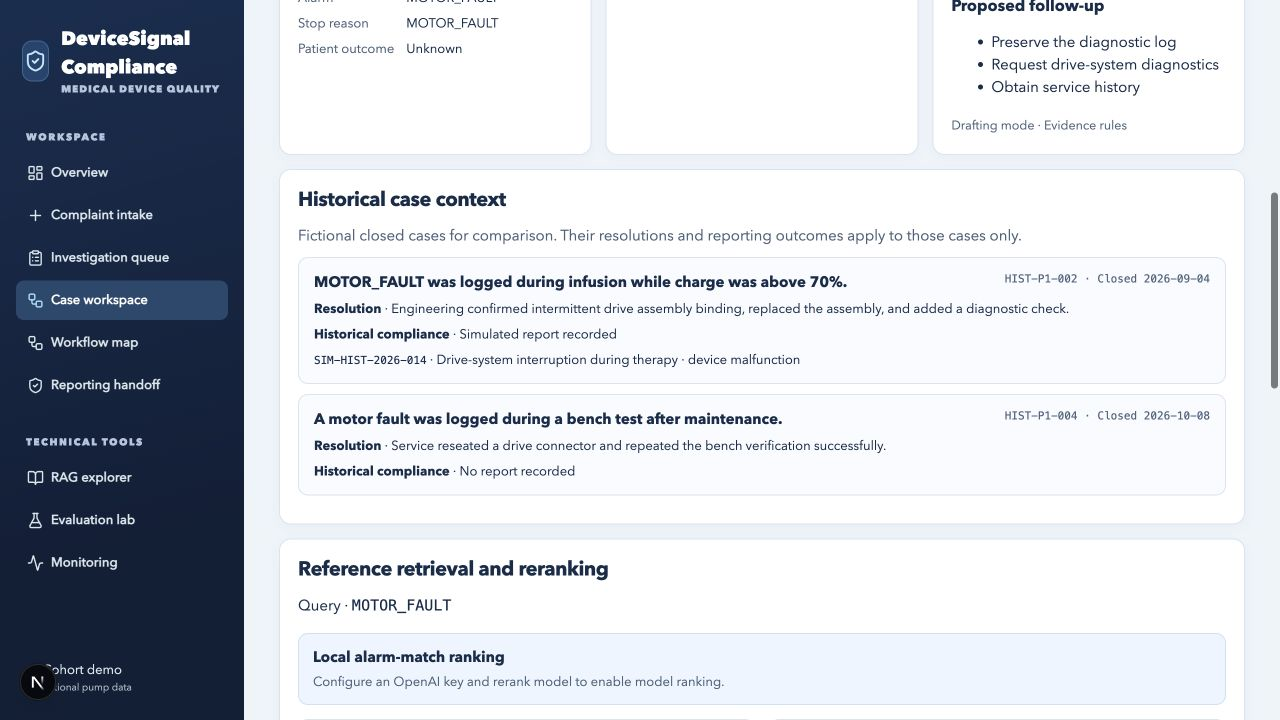
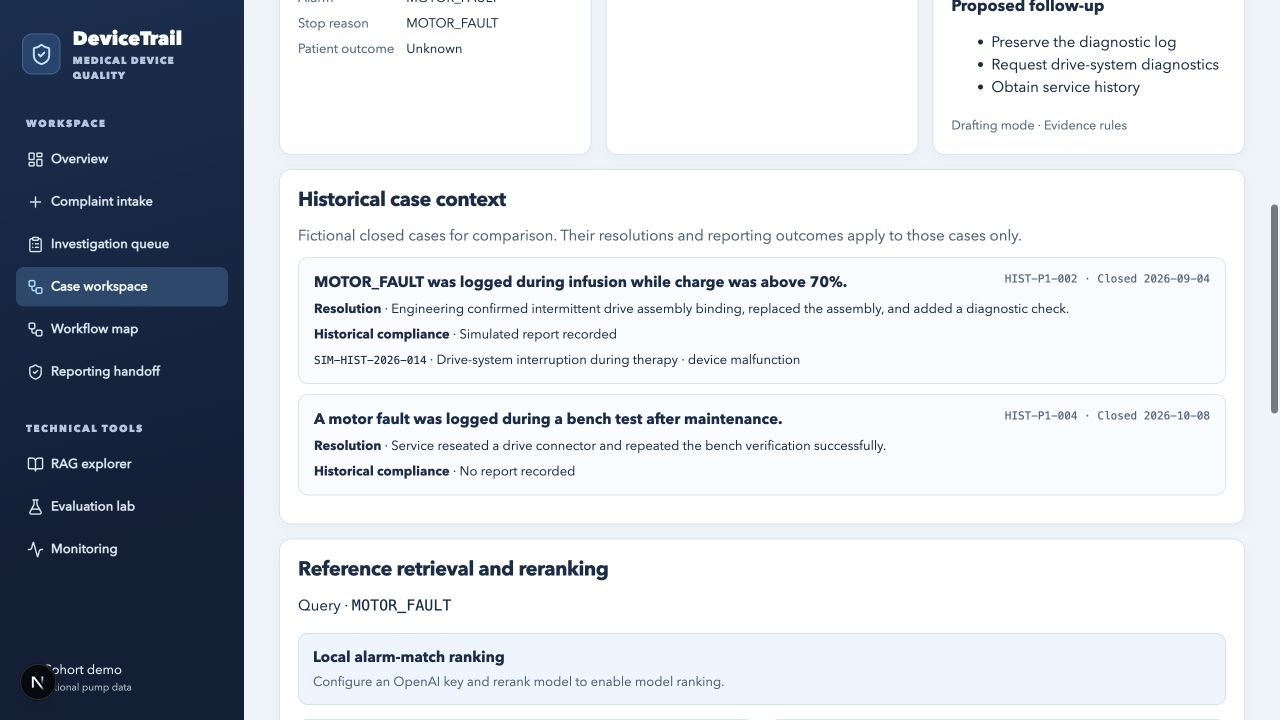
Rebrand the workspace as DeviceTrail

diff --git a/web/app/page.tsx b/web/app/page.tsx
@@ -1,5 +1,6 @@
 'use client';
 
+import { APP_NAME, DESCRIPTION, TAGLINE } from './brand';
 import TriageFlow from './triage-flow';
 import HistoricalContext, { type HistoricalCase, type HistoricalCompliance } from './historical-context';
 import RankingComparison, { type RetrievalRanking } from './retrieval-ranking';
@@ -202,7 +203,7 @@ export default function Home() {
 
   return <div className="shell">
     <aside className="sidebar">
-      <div className="brand"><span><ShieldCheck size={23} /></span><div>DeviceSignal Compliance<small>MEDICAL DEVICE QUALITY</small></div></div>
+      <div className="brand"><span><ShieldCheck size={23} /></span><div>{APP_NAME}<small>MEDICAL DEVICE QUALITY</small></div></div>
       <div className="nav-label">WORKSPACE</div>
       <nav aria-label="Workspace">{nav.map(([id, label, Icon], index) => <div key={id}>
         {index === 6 && <div className="nav-label tools">TECHNICAL TOOLS</div>}
@@ -214,7 +215,7 @@ export default function Home() {
       <header className="top"><span>Workspace <b>/</b> {nav.find(item => item[0] === screen)?.[1]}</span><span className="demo"><span className="dot" /> DEMO ENVIRONMENT</span></header>
       <div className="content">
         <div className="heading"><div><p className="eyebrow">POST-MARKET QUALITY · DEMO-P1</p><h1>{titles[screen][0]}</h1><p className="muted">{titles[screen][1]}</p></div>
-          {screen === 'overview' && <button className="primary" disabled={!!busy} onClick={() => open('intake')}><Plus size={17} /> New complaint</button>}
+          {screen === 'overview' && <button className="primary cta-nudge" disabled={!!busy} onClick={() => open('intake')}><Plus size={17} /> New complaint</button>}
         </div>
         <div className="safety"><ShieldCheck size={18} /><div><strong>Human review required</strong><span> Synthetic data only. Summary approval covers draft wording. Regulatory decisions belong to authorized humans.</span></div></div>
         {error && <div role="alert" className="alert">{error} <button onClick={() => void task('Refreshing', refresh)} disabled={!!busy}>Reconnect / refresh</button></div>}
@@ -222,10 +223,10 @@ export default function Home() {
         {notice && <div role="status" className="progress">{notice}</div>}
 
         {screen === 'overview' && <>
-          <section className="clinical-hero" aria-label="DeviceSignal Compliance">
+          <section className="clinical-hero" aria-label={APP_NAME}>
             <p className="hero-kicker"><Activity size={16} /> MEDICAL DEVICE QUALITY</p>
-            <h2>Investigate with evidence.<br />Review with confidence.</h2>
-            <p>One workspace for device complaints, cited findings and human-controlled reporting.</p>
+            <h2>{TAGLINE}</h2>
+            <p>{DESCRIPTION}</p>
             <button onClick={() => open('flow')} disabled={!!busy}>Explore the workflow <ArrowRight size={16} /></button>
           </section>
           <div className="stats">
@@ -248,7 +249,7 @@ export default function Home() {
           {currentScenario && <dl><dt>Device</dt><dd>{currentScenario.device.model} · {currentScenario.device.device_id}</dd><dt>Reported event</dt><dd>{currentScenario.incident.event_date} · {currentScenario.incident.event_time || 'Time unavailable'}</dd><dt>Patient outcome</dt><dd>Unknown</dd></dl>}
           <label>Original complaint<textarea required maxLength={4000} rows={5} value={complaint} onChange={e => setComplaint(e.target.value)} /></label>
           <label className="check"><input type="checkbox" name="urgent" /> Flag for prompt quality review</label>
-          <div className="actions"><button disabled={!!busy || !selected}>Save draft</button><button className="primary" value="start" disabled={!!busy || !selected}>Start investigation <ArrowRight size={16} /></button></div>
+          <div className="actions"><button disabled={!!busy || !selected}>Save draft</button><button className="primary cta-nudge" value="start" disabled={!!busy || !selected}>Start investigation <ArrowRight size={16} /></button></div>
         </form></Panel>}
 
         {screen === 'queue' && <Panel title="Cases">
@@ -324,7 +325,7 @@ export default function Home() {
               </fieldset>}
               <label>Rationale / requested records<textarea name="rationale" required maxLength={4000} rows={3} /></label>
               {reviewAction === 'revise_assessment' && <label>Revised wording<textarea name="revision" required maxLength={4000} rows={3} /></label>}
-              <button className="primary" disabled={!!busy || (reviewAction !== 'escalate_to_quality' && (!active.draft || active.status === 'reviewed'))}>Record review</button>
+              <button className="primary cta-nudge" disabled={!!busy || (reviewAction !== 'escalate_to_quality' && (!active.draft || active.status === 'reviewed'))}>Record review</button>
             </form></Panel>
             <Panel title="Add evidence"><form key={active.id} onSubmit={event => addEvidence(event, active)}><label>Source label<input name="label" required maxLength={160} /></label><label>Evidence note<textarea name="text" required maxLength={4000} rows={3} /></label><button disabled={!!busy}>Save evidence</button></form></Panel>
           </div>
@@ -353,7 +354,7 @@ export default function Home() {
               <div className="form-grid"><label>Compliance reviewer<input name="reviewer" required maxLength={160} /></label>
                 <label>Decision<select name="decision" required defaultValue=""><option value="" disabled>Select a decision</option><option value="prepare_report">Prepare report for external filing</option><option value="no_report">Record decision not to report</option><option value="more_information">Request more information</option></select></label></div>
               <label>Decision rationale<textarea name="rationale" required maxLength={4000} rows={3} /></label>
-              <button className="primary" disabled={!!busy}>Record human decision</button>
+              <button className="primary cta-nudge" disabled={!!busy}>Record human decision</button>
             </form>}
             {active.disposition && <p><strong>{{prepare_report: 'Prepare report', no_report: 'No report', more_information: 'More information required'}[active.disposition.decision]}</strong> · {active.disposition.reviewer}<br />{active.disposition.rationale}</p>}
             {active.disposition?.decision === 'more_information' && <button onClick={() => open('case')}>Return to case to add evidence</button>}

diff --git a/web/app/style.css b/web/app/style.css
@@ -16,7 +16,7 @@ button{display:inline-flex;gap:7px;align-items:center;justify-content:center;bor
 .followup-options p{font-size:12px;margin:0 0 8px}
 .followup-options .check{align-items:flex-start;margin:6px 0}
 
-/* DeviceSignal clinical workspace */
+/* DeviceTrail clinical workspace */
 :root {
   --nav:#10233f;
   --ink:#152d4b;
@@ -68,3 +68,17 @@ h1 {font-weight:780;letter-spacing:-.045em}
 .history-heading{display:flex;flex-wrap:wrap;justify-content:space-between;gap:6px 16px}
 .history-heading .mono{color:var(--muted)}
 .history-record p{margin:6px 0 0;font-size:13px}
+
+.clinical-hero h2 {max-width:15ch}
+@media (prefers-reduced-motion: no-preference) {
+  .cta-nudge:not(:disabled) {
+    animation:cta-arrive 520ms ease-out both;
+    transition:transform 160ms ease, box-shadow 160ms ease;
+  }
+  .cta-nudge:not(:disabled):hover {transform:translateY(-1px);box-shadow:0 3px 9px #1454a035}
+  @keyframes cta-arrive {
+    from {transform:translateY(3px);box-shadow:0 0 0 0 #4e93e455}
+    55% {box-shadow:0 0 0 5px #4e93e433}
+    to {transform:translateY(0);box-shadow:0 0 0 9px #4e93e400}
+  }
+}

diff --git a/web/app/layout.tsx b/web/app/layout.tsx
@@ -1,7 +1,8 @@
 import type { Metadata } from 'next';
 import './style.css';
+import { APP_NAME, DESCRIPTION } from './brand';
 
-export const metadata: Metadata = { title: 'DeviceSignal Compliance', description: 'Synthetic pump investigation workspace' };
+export const metadata: Metadata = { title: APP_NAME, description: DESCRIPTION };
 
 export default function Layout({ children }: Readonly<{ children: React.ReactNode }>) {
   return <html lang="en"><body>{children}</body></html>;

diff --git a/web/app/brand.ts b/web/app/brand.ts
@@ -1,0 +1,3 @@
+export const APP_NAME = 'DeviceTrail';
+export const TAGLINE = 'Trace the evidence. Document the decision.';
+export const DESCRIPTION = 'Follow the evidence from a complaint through investigation, human review, and reporting handoff.';

diff --git a/backend/main.py b/backend/main.py
@@ -20,12 +20,12 @@ from .evaluation import evaluate_local, publish_experiment
 from .online_evaluation import evaluate_action
 from .workflow import FIXTURES, HISTORY_REFERENCES, REFERENCES, build_graph, configured_reranker, rank_references, search
 
-ROOT = Path(os.getenv("MDR_STATE_DIR", ".state"))
+ROOT = Path(os.getenv("DEVICETRAIL_STATE_DIR") or os.getenv("MDR_STATE_DIR", ".state"))
 ROOT.mkdir(parents=True, exist_ok=True)
 LOCK = RLock()
 checkpoint_db = sqlite3.connect(ROOT / "checkpoints.sqlite", check_same_thread=False)
 GRAPH = build_graph(SqliteSaver(checkpoint_db))
-app = FastAPI(title="DeviceSignal Compliance")
+app = FastAPI(title="DeviceTrail")
 LABELS = {"DEMO-001": "Low battery", "DEMO-002": "Motor fault", "DEMO-003": "Missing evidence"}
 Short = Annotated[str, StringConstraints(strip_whitespace=True, min_length=1, max_length=160)]
 Narrative = Annotated[str, StringConstraints(strip_whitespace=True, min_length=1, max_length=4000)]
@@ -167,7 +167,7 @@ def create_case(body: Intake):
     return case
 
 
-@traceable(name="DeviceSignal Compliance investigation")
+@traceable(name="DeviceTrail investigation")
 def investigate(case, run_id):
     trace = get_current_run_tree()
     result = GRAPH.invoke({"case": case}, config={"configurable": {"thread_id": run_id}})

diff --git a/backend/evaluation.py b/backend/evaluation.py
@@ -18,7 +18,7 @@ def examples():
         }
 
 
-@traceable(name="DeviceSignal Compliance eval target")
+@traceable(name="DeviceTrail eval target")
 def target(inputs):
     scenario = inputs["scenario"]
     case = {"scenario": scenario, "complaint": FIXTURES[scenario]["complaint"], "added_evidence": []}
@@ -52,11 +52,11 @@ def evaluate_local():
 
 def publish_experiment():
     client = Client()
-    name = os.getenv("LANGSMITH_DATASET", "DeviceSignal Compliance · Demo-P1 v2")
+    name = os.getenv("LANGSMITH_DATASET", "DeviceTrail · Demo-P1 v2")
     if not client.has_dataset(dataset_name=name):
         dataset = client.create_dataset(name, description="Three synthetic pump investigation scenarios")
         client.create_examples(dataset_id=dataset.id, examples=list(examples()))
     experiment = client.evaluate(
-        target, data=name, evaluators=[checks], experiment_prefix="devicesignal-compliance", max_concurrency=1
+        target, data=name, evaluators=[checks], experiment_prefix="devicetrail", max_concurrency=1
     )
     return experiment.experiment_name

diff --git a/README.md b/README.md
@@ -1,6 +1,8 @@
-# DeviceSignal Compliance
+# DeviceTrail
 
-Standalone cohort demo for investigating three fictional Demo-P1 pump complaints. The seven screens cover overview, intake, queue, case workspace with human review, RAG explorer, evaluation lab and monitoring.
+*Trace the evidence. Document the decision.*
+
+Follow the evidence from a complaint through investigation, human review, and reporting handoff. The cohort demo includes three fictional Demo-P1 pump cases.
 
 [Clinical workspace preview](docs/clinical-overview.jpg) · [Investigation workflow](docs/investigation-workflow.jpg) · [Historical case context](docs/historical-context.jpg)
 
@@ -19,7 +21,7 @@ npm ci
 npm run dev -- --hostname 127.0.0.1
 ```
 
-Open http://127.0.0.1:3000. FastAPI's interactive API is at http://127.0.0.1:8000/docs. Next.js proxies API requests to FastAPI. Set `MDR_BACKEND_URL` before starting or building the UI if FastAPI runs on a different port. Run one backend process with its own writable state directory.
+Open http://127.0.0.1:3000. FastAPI's interactive API is at http://127.0.0.1:8000/docs. Next.js proxies API requests to FastAPI. Set `DEVICETRAIL_BACKEND_URL` before starting or building the UI if FastAPI runs on a different port. Run one backend process with its own writable state directory.
 
 ## Walk through the demo
 
@@ -34,11 +36,11 @@ Open http://127.0.0.1:3000. FastAPI's interactive API is at http://127.0.0.1:800
 - LangChain indexes the supplied fictional manual and SOP chunks using local token embeddings and cosine search, followed by a configurable OpenAI reranker or the local alarm-match fallback. Incident logs and the evaluator answer key stay outside the index. The checked-in sources are already split into versioned sections.
 - The default draft is deterministic. For optional OpenAI follow-up prioritization and reference reranking, copy `.env.example` to `.env`, set `OPENAI_API_KEY` and `OPENAI_MODEL` to a model available to your project with Responses API structured output, and restart FastAPI. The follow-up model returns a permutation of three proposed requests. The separate rerank step orders reference passages before the draft is built. Evidence wording, cause status and review transitions remain controlled by the application. See the [OpenAI text generation guide](https://developers.openai.com/api/docs/guides/text).
 - For LangSmith, set `LANGSMITH_API_KEY`, `LANGSMITH_TRACING=true` and `LANGSMITH_PROJECT`, then restart FastAPI. Run a case for traces and use **Run LangSmith experiment** in the lab to create or reuse the three-example dataset and run the structured checks. See [LangSmith evaluations](https://docs.langchain.com/langsmith/evaluate-llm-application).
-- The five automated checks measure cause status, citation coverage, reference retrieval, the human-review flag and missing-evidence routing. Claim support has a separate human-readable rubric. This three-case suite is a smoke test.
+- The eight offline checks cover cause status, citations, reference retrieval, historical matches and references, historical citation isolation, the human-review flag, and missing-evidence routing. Claim support has a separate human-readable rubric. This three-case suite is a smoke test.
 
 The demo accepts fictional inputs only. Reviewer names are entered locally for the demo audit trail. Summary approval covers wording. Regulatory decisions remain outside the demo and belong to authorized humans. Keep this single-user application on loopback.
 
-`MDR_STATE_DIR` selects a separate case and checkpoint database directory for each cohort or verification run.
+`DEVICETRAIL_STATE_DIR` selects a separate case and checkpoint database directory for each cohort or verification run.
 
 ## Complaint to reporting
 
